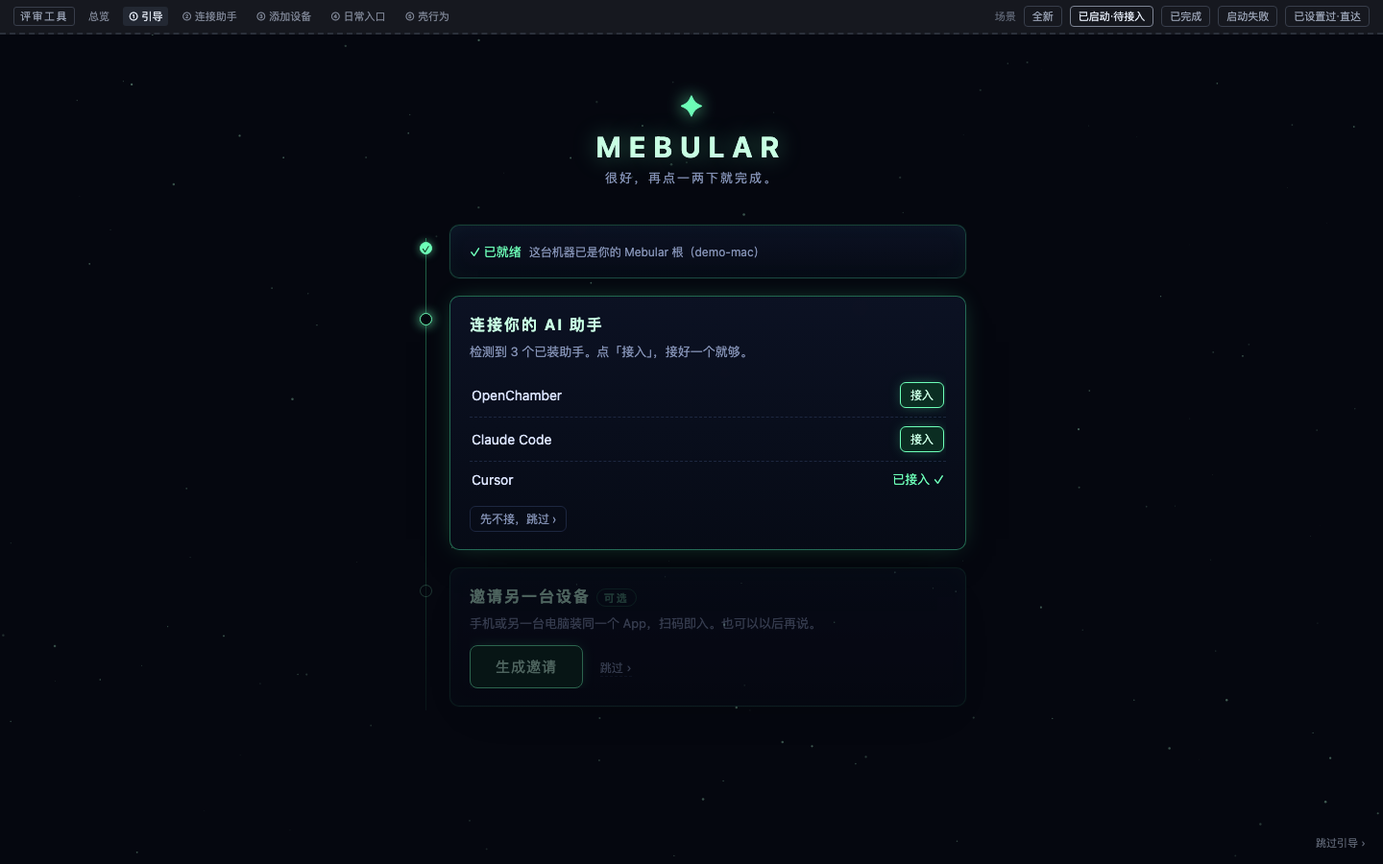
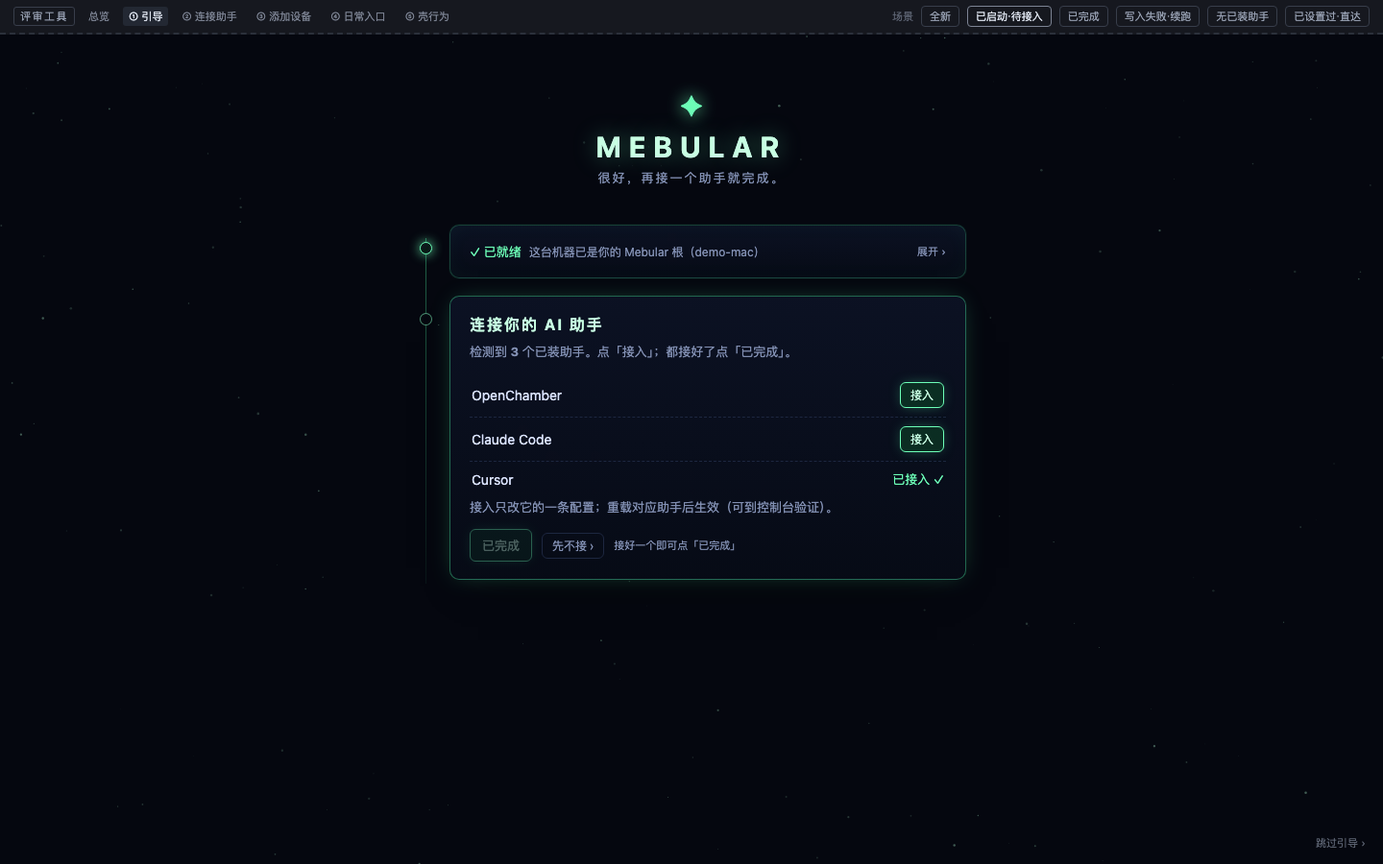
docs(design): setup screen v2 — pipeline visibility, explicit completion, invite out
- 段①：一键后按钮区原位展开子步骤流水（✓启动 ✓写入 ●重启恢复）；
  失败定位到子步骤 + 「从此处续跑」，不再笼统重试
- 段②：行级「已接入 ✓」不自动翻段；段尾「已完成」（≥1 已接入才可用）
  由用户显式点击翻段；加诚实注脚（重载后生效）与 0 助手空态；
  done 段回顾行可重新展开
- 段③邀请移出引导：完成页一句指路「顶栏 ＋ 邀请新设备」；
  完成页对已接未重载助手给提醒
- 跳过语义区分：右下「跳过引导 ›」（整局）vs 段内「先不接 ›」
- 规格 §1/§4.2/§5.1 同步；状态模型注明留 chief 定夺；
  新增 ux2-01-setup-fail-resume 截图

diff --git a/docs/design/prototype/01-setup.html b/docs/design/prototype/01-setup.html
@@ -13,7 +13,7 @@ body.setup { min-height: 100vh; overflow-x: hidden; }
 .hero { text-align: center; margin-bottom: 40px; }
 .hero .mark { font-size: 30px; color: var(--crt); text-shadow: 0 0 18px rgba(109, 255, 184, 0.8); animation: pulse 3.2s ease-in-out infinite; }
 .hero h1 { font-size: 30px; letter-spacing: 8px; margin: 8px 0 6px; text-shadow: 0 0 24px rgba(109, 255, 184, 0.35); }
-.hero .tagline { color: var(--muted); font-size: 13px; letter-spacing: 2px; margin: 0; }
+.hero .tagline { color: var(--muted); font-size: 13px; letter-spacing: 2px; margin: 0; min-height: 18px; }
 
 .rail { list-style: none; margin: 0; padding: 0; position: relative; }
 .rail::before { content: ""; position: absolute; left: 9px; top: 14px; bottom: 14px; width: 1px;
@@ -35,33 +35,43 @@ body.setup { min-height: 100vh; overflow-x: hidden; }
 .panel p { margin: 0 0 12px; font-size: 13px; color: var(--muted); line-height: 1.7; }
 
 button.big { font-size: 15px; padding: 11px 26px; border-radius: 8px; letter-spacing: 1px; }
-.alt { display: inline-block; margin-left: 14px; font-size: 12px; color: var(--muted); text-decoration: none; border-bottom: 1px dashed var(--border); }
+.alt { display: inline-block; margin-left: 14px; font-size: 12px; color: var(--muted); text-decoration: none; border-bottom: 1px dashed var(--border); cursor: pointer; }
 .alt:hover { color: var(--text); }
 .spin { display: inline-block; width: 12px; height: 12px; border: 2px solid var(--crt-dim); border-top-color: var(--crt); border-radius: 50%; animation: rot .8s linear infinite; vertical-align: -2px; margin-right: 8px; }
+
+/* 段①内部流水：一键之后，按钮区变成实时子步骤 */
+.pipeline { list-style: none; margin: 4px 0 0; padding: 0; font-size: 13px; line-height: 2.1; }
+.pipeline li { display: flex; gap: 9px; align-items: baseline; color: var(--muted); }
+.pipeline li .st { width: 14px; text-align: center; flex: none; }
+.pipeline li.ok { color: var(--text); }
+.pipeline li.ok .st { color: var(--crt); }
+.pipeline li.run { color: var(--crt-bright); }
+.pipeline li.bad { color: var(--warn); }
+.pipeline .resume { margin-left: 6px; }
 
 /* 助手行：名称 + 一个动作，纯点击 */
 .arow { display: flex; align-items: center; gap: 10px; padding: 9px 2px; border-top: 1px dashed var(--border); }
 .arow:first-of-type { border-top: none; }
 .arow .nm { flex: 1; font-size: 14px; }
 .arow .ok { color: var(--crt); font-size: 13px; }
+.sec-foot { display: flex; gap: 10px; align-items: center; margin-top: 12px; }
+.hint { font-size: 11px; color: var(--muted); }
 
-/* 完成一行（折叠态） */
-.done-line { display: flex; gap: 8px; align-items: center; color: var(--crt); font-size: 13px; }
+/* 完成一行（折叠态）：可重新展开 */
+.done-line { display: flex; gap: 8px; align-items: center; color: var(--crt); font-size: 13px; cursor: pointer; }
 .done-line .muted { color: var(--muted); }
+.done-line .chev { margin-left: auto; color: var(--muted); font-size: 11px; }
 
-/* 节点内容展开/收起 */
-.node .panel .body { transition: opacity .35s, max-height .45s; overflow: hidden; }
 .node.collapsed .panel .body { display: none; }
 .node:not(.active):not(.done) .panel { pointer-events: none; }
 
 .finish { text-align: center; padding: 26px 0 6px; opacity: 0; transform: translateY(8px); transition: all .6s; }
 .finish.show { opacity: 1; transform: none; }
-.finish .word { font-size: 22px; letter-spacing: 10px; color: var(--crt-bright); text-shadow: 0 0 26px rgba(109, 255, 184, 0.65); margin-bottom: 14px; }
+.finish .word { font-size: 22px; letter-spacing: 10px; color: var(--crt-bright); text-shadow: 0 0 26px rgba(109, 255, 184, 0.65); margin-bottom: 12px; }
+.finish .note { color: var(--muted); font-size: 12px; margin: 4px 0 14px; line-height: 1.8; }
+.finish .note .warn-text { display: block; }
 .skip { position: fixed; right: 18px; bottom: 14px; z-index: 2; font-size: 11px; color: #5f6675; text-decoration: none; }
 .skip:hover { color: var(--muted); }
-
-.qr { text-align: center; margin: 4px 0 10px; }
-.qr pre { display: inline-block; margin: 0; padding: 14px 18px; border-color: var(--crt-border-soft); letter-spacing: 4px; }
 
 @keyframes rot { to { transform: rotate(360deg); } }
 @keyframes pulse { 0%, 100% { opacity: 1; } 50% { opacity: .45; } }
@@ -80,7 +90,8 @@ button.big { font-size: 15px; padding: 11px 26px; border-radius: 8px; letter-spa
   <button data-s="fresh" aria-pressed="true">全新</button>
   <button data-s="step2" aria-pressed="false">已启动·待接入</button>
   <button data-s="done" aria-pressed="false">已完成</button>
-  <button data-s="fail" aria-pressed="false">启动失败</button>
+  <button data-s="fail" aria-pressed="false">写入失败·续跑</button>
+  <button data-s="noassist" aria-pressed="false">无已装助手</button>
   <button data-s="existing" aria-pressed="false">已设置过·直达</button>
 </div>
 <!-- ===== 产品界面 ===== -->
@@ -88,7 +99,7 @@ button.big { font-size: 15px; padding: 11px 26px; border-radius: 8px; letter-spa
   <header class="hero">
     <div class="mark">✦</div>
     <h1>MEBULAR</h1>
-    <p class="tagline" id="tagline">点三下，把它接进你的日常。</p>
+    <p class="tagline" id="tagline">点两下，把它接进你的日常。</p>
   </header>
 
   <ol class="rail">
@@ -101,16 +112,21 @@ button.big { font-size: 15px; padding: 11px 26px; border-radius: 8px; letter-spa
           <p id="start-copy">在这台机器上启动 Mebular 并完成初始设置。<br>数据只存在这台机器上，不上云。</p>
           <div id="start-actions">
             <button class="primary big" id="go">一键开始</button>
-            <a class="alt" href="#" id="alt-join">或加入已有的 Mebular ›</a>
+            <a class="alt" id="alt-join">或加入已有的 Mebular ›</a>
           </div>
           <div id="join-box" hidden>
             <pre style="margin-top:10px">粘贴一次性令牌（邀请方「生成邀请」里的那段文本）…</pre>
             <div class="row"><button class="primary" id="go-join">加入</button></div>
           </div>
-          <p class="fail-line" id="start-fail" hidden>没能启动：守护程序没起来<button class="primary small" id="retry">重试</button></p>
-          <details class="detail" id="start-fail-detail" hidden><summary>详情</summary><pre>spawn node ENOENT（原型假数据）</pre></details>
+          <!-- 一键之后的实时流水（按钮区原位展开） -->
+          <ul class="pipeline" id="pipe" hidden>
+            <li data-k="start"><span class="st">·</span>启动本机守护</li>
+            <li data-k="write"><span class="st">·</span>写入本机设置</li>
+            <li data-k="restart"><span class="st">·</span>重启生效（页面会自动恢复）</li>
+          </ul>
+          <details class="detail" id="start-fail-detail" hidden><summary>详情</summary><pre>写入 ~/.mebular/device.json 失败：磁盘只读（原型假数据）</pre></details>
         </div>
-        <div class="done-line" hidden id="start-done"><span>✓ 已就绪</span><span class="muted">这台机器已是你的 Mebular 根（demo-mac）</span></div>
+        <div class="done-line" hidden id="start-done"><span>✓ 已就绪</span><span class="muted">这台机器已是你的 Mebular 根（demo-mac）</span><span class="chev">展开 ›</span></div>
       </section>
     </li>
 
@@ -120,41 +136,27 @@ button.big { font-size: 15px; padding: 11px 26px; border-radius: 8px; letter-spa
       <section class="panel">
         <div class="body">
           <h2>连接你的 AI 助手</h2>
-          <p>检测到 3 个已装助手。点「接入」，接好一个就够。</p>
-          <div class="arow" data-name="OpenChamber"><span class="nm">OpenChamber</span><button class="primary small connect">接入</button></div>
-          <div class="arow" data-name="Claude Code"><span class="nm">Claude Code</span><button class="primary small connect">接入</button></div>
-          <div class="arow" data-name="Cursor"><span class="nm">Cursor</span><span class="ok">已接入 ✓</span></div>
-          <div class="row" style="margin-top:10px"><button class="ghost small" id="skip-connect">先不接，跳过 ›</button></div>
-        </div>
-        <div class="done-line" hidden id="connect-done"><span>✓ 已接好 <b id="connected-names">OpenChamber</b></span><span class="muted">其余的随时可以回控制台接</span></div>
-      </section>
-    </li>
-
-    <!-- ③ 邀请（可选） -->
-    <li class="node locked" id="n3">
-      <span class="pip"></span>
-      <section class="panel">
-        <div class="body">
-          <h2>邀请另一台设备 <span class="badge dim">可选</span></h2>
-          <p>手机或另一台电脑装同一个 App，扫码即入。也可以以后再说。</p>
-          <div id="invite-actions">
-            <button class="primary big" id="gen">生成邀请</button>
-            <a class="alt" href="#" id="skip-invite">跳过 ›</a>
+          <p id="assist-copy">检测到 <b id="assist-count">3</b> 个已装助手。点「接入」；都接好了点「已完成」。</p>
+          <div id="assist-rows">
+            <div class="arow" data-name="OpenChamber"><span class="nm">OpenChamber</span><button class="primary small connect">接入</button></div>
+            <div class="arow" data-name="Claude Code"><span class="nm">Claude Code</span><button class="primary small connect">接入</button></div>
+            <div class="arow" data-name="Cursor"><span class="nm">Cursor</span><span class="ok">已接入 ✓</span></div>
           </div>
-          <div id="invite-qr" hidden>
-            <div class="qr"><pre>▦▦▦▦▦
-▦ QR ▦
-▦▦▦▦▦</pre></div>
-            <div class="row" style="justify-content:center"><button class="small">复制令牌</button><button class="primary small" id="finish3">好了，进入控制台</button></div>
+          <p class="hint" id="assist-note">接入只改它的一条配置；重载对应助手后生效（可到控制台验证）。</p>
+          <div class="sec-foot">
+            <button class="primary" id="done2" disabled>已完成</button>
+            <button class="ghost small" id="skip-connect">先不接 ›</button>
+            <span class="hint" id="done2-hint">接好一个即可点「已完成」</span>
           </div>
         </div>
-        <div class="done-line" hidden id="invite-done"><span>✓ 邀请已生成</span><span class="muted">15 分钟内有效</span></div>
+        <div class="done-line" hidden id="connect-done"><span>✓ 已接好 <b id="connected-names">OpenChamber</b></span><span class="muted">重载对应助手后生效</span><span class="chev">展开 ›</span></div>
       </section>
     </li>
   </ol>
 
   <div class="finish" id="finish">
     <div class="word">已就绪 ✦</div>
+    <p class="note" id="finish-note">之后想接更多助手、邀请其他设备，都在控制台里：<br>顶栏「＋ 邀请新设备」随时可用。</p>
     <button class="primary big" onclick="location.href='./05-daily.html'">进入控制台</button>
   </div>
 
@@ -202,85 +204,123 @@ function setNode(n, state) { // state: active | done | locked
   el.querySelector('.panel .body').hidden = state === 'done';
   el.querySelector('.done-line').hidden = state !== 'done';
 }
-function showFinish() { $('finish').classList.add('show'); }
-
-// ① 一键开始（壳场景：启动 + 建新 + 重启一次完成，纯点击）
-function startFlow() {
-  const btn = $('go');
-  btn.disabled = true; btn.innerHTML = '<span class="spin"></span>正在启动…';
-  setTimeout(() => { btn.innerHTML = '<span class="spin"></span>正在写入本机设置…'; }, 900);
-  setTimeout(() => {
-    setNode(1, 'done'); setNode(2, 'active'); setNode(3, 'locked');
-    $('tagline').textContent = '很好，再点一两下就完成。';
-    document.querySelector('.stage').scrollIntoView({ behavior: 'smooth' });
-  }, 1800);
-}
-$('go').addEventListener('click', () => {
-  if (mode === 'fail') {
-    $('start-fail').hidden = false; $('start-fail-detail').hidden = false; $('go').disabled = true;
-    return;
-  }
-  startFlow();
-});
-$('retry').addEventListener('click', () => { $('start-fail').hidden = true; $('start-fail-detail').hidden = true; $('go').disabled = false; startFlow(); });
-$('alt-join').addEventListener('click', (e) => { e.preventDefault(); $('join-box').hidden = !$('join-box').hidden; });
-$('go-join').addEventListener('click', startFlow);
-
-// ② 接入（接好一个即可继续）
-document.querySelectorAll('.connect').forEach((b) => b.addEventListener('click', () => {
-  const row = b.closest('.arow'), name = row.dataset.name;
-  b.disabled = true; b.innerHTML = '<span class="spin"></span>接入中…';
-  setTimeout(() => {
-    joined.push(name);
-    b.outerHTML = '<span class="ok">已接入 ✓</span>';
-    $('connected-names').textContent = joined.join('、');
-    setNode(2, 'done'); setNode(3, 'active');
-    $('tagline').textContent = '最后一下（也可以跳过）。';
-  }, 1200);
+// done 段可重新展开（回顾 / 继续操作）
+document.querySelectorAll('.done-line').forEach((d) => d.addEventListener('click', () => {
+  const node = d.closest('.node');
+  node.classList.remove('collapsed');
+  node.querySelector('.panel .body').hidden = false;
+  d.hidden = true;
 }));
-$('skip-connect').addEventListener('click', () => {
-  $('connect-done').innerHTML = '<span>— 已跳过</span><span class="muted">随时可以在控制台「连接 AI 助手」</span>';
-  setNode(2, 'done'); setNode(3, 'active');
-});
+function showFinish() {
+  if (joined.length) {
+    $('finish-note').innerHTML = `提醒：重载 ${joined.join('、')} 后，mebular 才会出现在它的工具列表。<br>之后想接更多助手、邀请其他设备，都在控制台里。`;
+  }
+  $('finish').classList.add('show');
+}
 
-// ③ 邀请 / 跳过 → 完成
-$('gen').addEventListener('click', () => {
-  $('gen').disabled = true; $('gen').innerHTML = '<span class="spin"></span>正在生成…';
-  setTimeout(() => { $('invite-actions').hidden = true; $('invite-qr').hidden = false; }, 800);
+// 段①：一键开始 → 按钮区原位展开实时流水；失败定位到子步骤并可续跑
+const pipeSteps = ['start', 'write', 'restart'];
+function setPipe(k, st, extra) { // st: run|ok|bad|todo
+  const li = document.querySelector(`#pipe li[data-k="${k}"]`);
+  li.className = st === 'todo' ? '' : st;
+  li.querySelector('.st').textContent = { ok: '✓', run: '●', bad: '✗', todo: '·' }[st];
+  li.querySelector('.resume')?.remove();
+  if (st === 'bad' && extra) {
+    const b = document.createElement('button');
+    b.className = 'primary small resume'; b.textContent = '从此处续跑';
+    b.addEventListener('click', () => { $('start-fail-detail').hidden = true; runPipeline(pipeSteps.indexOf(k)); });
+    li.appendChild(b);
+  }
+}
+function runPipeline(from = 0) {
+  $('start-actions').hidden = true; $('join-box').hidden = true; $('pipe').hidden = false;
+  pipeSteps.forEach((k, i) => setPipe(k, i < from ? 'ok' : i === from ? 'run' : 'todo'));
+  const failAt = (mode === 'fail') ? 1 : -1; // 失败场景：卡在「写入本机设置」
+  let i = from;
+  const step = () => {
+    if (i === failAt) {
+      setPipe(pipeSteps[i], 'bad', true);
+      $('start-fail-detail').hidden = false;
+      return;
+    }
+    setPipe(pipeSteps[i], 'ok');
+    i += 1;
+    if (i < pipeSteps.length) { setPipe(pipeSteps[i], 'run'); setTimeout(step, 900); return; }
+    // 全部完成
+    setTimeout(() => {
+      setNode(1, 'done'); setNode(2, 'active');
+      $('tagline').textContent = '很好，再接一个助手就完成。';
+    }, 500);
+  };
+  setTimeout(step, 900);
+}
+$('go').addEventListener('click', () => runPipeline(0));
+$('go-join').addEventListener('click', () => runPipeline(0));
+$('alt-join').addEventListener('click', () => { $('join-box').hidden = !$('join-box').hidden; });
+
+// 段②：行级「已接入」；「已完成」由用户显式点击才翻段（绑定逻辑见 bindConnects）
+$('done2').addEventListener('click', () => {
+  setNode(2, 'done'); showFinish();
+  $('tagline').textContent = '全部就绪。';
 });
-$('finish3').addEventListener('click', () => { setNode(3, 'done'); showFinish(); $('tagline').textContent = '全部就绪。'; });
-$('skip-invite').addEventListener('click', (e) => {
-  e.preventDefault();
-  $('invite-done').innerHTML = '<span>— 已跳过</span><span class="muted">顶栏「＋ 邀请新设备」随时可用</span>';
-  setNode(3, 'done'); showFinish(); $('tagline').textContent = '全部就绪。';
+$('skip-connect').addEventListener('click', () => {
+  $('connect-done').innerHTML = '<span>— 已跳过</span><span class="muted">随时可以在控制台「连接 AI 助手」</span><span class="chev">展开 ›</span>';
+  setNode(2, 'done'); showFinish();
+  $('tagline').textContent = '全部就绪。';
 });
 
 // 场景（评审）
 let mode = 'fresh';
+const ROWS_HTML = $('assist-rows').innerHTML;
+function bindConnects() {
+  document.querySelectorAll('.connect').forEach((b) => b.addEventListener('click', () => {
+    const row = b.closest('.arow'), name = row.dataset.name;
+    b.disabled = true; b.innerHTML = '<span class="spin"></span>接入中…';
+    setTimeout(() => {
+      joined.push(name);
+      b.outerHTML = '<span class="ok">已接入 ✓</span>';
+      $('connected-names').textContent = joined.join('、');
+      $('done2').disabled = false;
+      $('done2-hint').textContent = '还可以继续接其他助手';
+    }, 1100);
+  }));
+}
+function resetAssists(count) {
+  joined = [];
+  $('assist-rows').innerHTML = ROWS_HTML; bindConnects();
+  $('assist-count').textContent = count;
+  $('assist-rows').hidden = count === 0;
+  $('assist-note').hidden = count === 0;
+  $('assist-copy').innerHTML = count === 0
+    ? '没检测到已装的 AI 助手 —— 可以先跳过，装好后再到控制台「连接 AI 助手」。'
+    : `检测到 <b id="assist-count">${count}</b> 个已装助手。点「接入」；都接好了点「已完成」。`;
+  $('done2').disabled = true; $('done2').hidden = count === 0;
+  $('done2-hint').textContent = count === 0 ? '' : '接好一个即可点「已完成」';
+}
 function show(s) {
   mode = s;
   document.querySelectorAll('.proto-review button[data-s]').forEach((b) => b.setAttribute('aria-pressed', String(b.dataset.s === s)));
   rail.hidden = s === 'existing'; $('existing').hidden = s !== 'existing';
   $('finish').classList.remove('show');
-  $('start-fail').hidden = true; $('start-fail-detail').hidden = true;
-  $('go').disabled = false; $('go').textContent = '一键开始';
-  if (s === 'fresh') {
-    $('tagline').textContent = '点三下，把它接进你的日常。';
-    setNode(1, 'active'); setNode(2, 'locked'); setNode(3, 'locked');
+  $('pipe').hidden = true; $('start-fail-detail').hidden = true;
+  $('start-actions').hidden = false; $('go').disabled = false; $('go').textContent = '一键开始';
+  resetAssists(s === 'noassist' ? 0 : 3);
+  if (s === 'fresh' || s === 'fail' || s === 'noassist') {
+    $('tagline').textContent = '点两下，把它接进你的日常。';
+    setNode(1, 'active'); setNode(2, 'locked');
   } else if (s === 'step2') {
-    $('tagline').textContent = '很好，再点一两下就完成。';
-    setNode(1, 'done'); setNode(2, 'active'); setNode(3, 'locked');
+    $('tagline').textContent = '很好，再接一个助手就完成。';
+    setNode(1, 'done'); setNode(2, 'active');
   } else if (s === 'done') {
     $('tagline').textContent = '全部就绪。';
-    setNode(1, 'done'); setNode(2, 'done'); setNode(3, 'done'); showFinish();
-  } else if (s === 'fail') {
-    $('tagline').textContent = '点三下，把它接进你的日常。';
-    setNode(1, 'active'); setNode(2, 'locked'); setNode(3, 'locked');
+    joined = ['OpenChamber']; $('connected-names').textContent = 'OpenChamber';
+    setNode(1, 'done'); setNode(2, 'done'); showFinish();
   } else if (s === 'existing') {
     $('tagline').textContent = '';
   }
 }
 document.querySelectorAll('.proto-review button[data-s]').forEach((b) => b.addEventListener('click', () => show(b.dataset.s)));
+bindConnects();
 { const qs = new URLSearchParams(location.search).get('s'); if (qs) show(qs); }
 </script>
 </body>

diff --git a/docs/design/prototype/index.html b/docs/design/prototype/index.html
@@ -18,15 +18,15 @@
 <main>
   <section class="card">
     <div class="card-head"><h2>旅程图</h2></div>
-    <pre>安装 App → 一屏引导（一键开始 → 接入助手 → 可选邀请，纯点击）→ 日常控制台
-                 │启动失败：一行提示 + 重试      │回想：控制台/托盘「返回向导」
+    <pre>安装 App → 一屏引导（一键开始·子步骤流水 → 行级接入·点「已完成」才翻段）→ 日常控制台
+                 │失败定位到子步骤+续跑        │邀请不进引导（完成页提一句）
                  └────────────── 全程一屏，不分页、不读文档</pre>
   </section>
 
   <section class="card">
     <div class="card-head"><h2>推荐路线（逐屏点一遍）</h2></div>
     <ol class="checklist" style="color:var(--text)">
-      <li><a href="./01-setup.html">① 一屏引导</a>（核心）：点「一键开始」→ 给 OpenChamber 点「接入」→「生成邀请」或「跳过 ›」→「已就绪 ✦」；评审条切「启动失败 / 已设置过·直达」</li>
+      <li><a href="./01-setup.html">① 一屏引导</a>（核心）：「一键开始」看子步骤流水 → 行级接入（不跳走）→「已完成」→「已就绪 ✦」；评审条切「写入失败·续跑 / 无已装助手 / 已设置过·直达」</li>
       <li><a href="./03-connect.html">② 连接助手</a>（日常操作面）：三态卡片、＋新增助手、四个失败场景（评审条）</li>
       <li><a href="./04-device.html">③ 添加设备</a>：生成邀请 → 二次确认再生 → 已连收编</li>
       <li><a href="./05-daily.html">④ 日常入口</a>：完成态日常（控制台为家）</li>
@@ -36,7 +36,7 @@
 
   <section class="card">
     <div class="card-head"><h2>失败路径覆盖</h2></div>
-    <p class="muted">引导期：启动失败（① 屏评审条）。接入期：检测失败 / 写入失败 / 验证失败 / 需重启未重启 → 见 <a href="./03-connect.html">② 连接助手</a> 评审条。</p>
+    <p class="muted">引导期：写入失败·续跑 / 无已装助手（① 屏评审条）。接入期：检测失败 / 写入失败 / 验证失败 / 需重启未重启 → 见 <a href="./03-connect.html">② 连接助手</a> 评审条。</p>
     <p class="muted">对应规格：<code>docs/design/config-journey-v1.md</code>（§8.1 约束本原型的批注边界）。</p>
   </section>
 </main>

diff --git a/docs/design/prototype/README.md b/docs/design/prototype/README.md
@@ -11,7 +11,7 @@
 | 页 | 覆盖 |
 |---|---|
 | `index.html` | 总览 + 旅程图 + 推荐路线（评审页） |
-| `01-setup.html` | **一屏引导**（核心）：星野舞台 + 里程碑轨道，永远只有一个主按钮：一键开始（启动+建新/加入）→ 接入助手（接好一个即可）→ 可选邀请 → 已就绪 ✦；场景：启动失败（一行提示+重试）/ 已设置过·直达控制台 |
+| `01-setup.html` | **一屏引导**（核心）：星野舞台 + 里程碑轨道，永远只有一个主按钮：① 一键开始（按钮区原位展开子步骤流水：✓启动 ✓写入 ●重启恢复；失败子步骤定位+「从此处续跑」）→ ② 行级接入（「已接入 ✓」不自动翻段，点「已完成」才翻段；可回头再接）→ 已就绪 ✦（邀请不进引导，完成页提一句）；场景：写入失败·续跑 / 无已装助手 / 已设置过·直达 |
 | `03-connect.html` | 连接助手（日常操作面）：三态卡片（名称+状态词+一个主按钮，判据入详情）、＋新增助手全流程、接入→验证→待生效→重新验证→已接入 ✓；场景条覆盖**检测失败 / 写入失败 / 验证失败 / 需重启未重启**（一行式） |
 | `04-device.html` | 邀请：生成（loading 禁用）→ 二次确认再生 → 已连收编；加入服务未启用指路 |
 | `05-daily.html` | 日常入口：完成态直达控制台，设置/诊断/关于本机 |
@@ -19,7 +19,7 @@
 
 ## 推荐路线
 
-1. `01`（多停一会）：点「一键开始」→ 给 OpenChamber 点「接入」→「生成邀请」或「跳过 ›」→「已就绪 ✦」；评审条切「启动失败」「已设置过·直达」各看一眼。
+1. `01`（多停一会）：点「一键开始」看子步骤流水 → 给 OpenChamber 点「接入」（行级已接入，**不跳走**）→ 可再接 Claude Code → 点「已完成」→「已就绪 ✦」；评审条切「写入失败·续跑」「无已装助手」「已设置过·直达」各看一眼；点完成段的回顾行可重新展开。
 2. `03`：日常再进连接页的场景——三态卡片、四个失败场景（评审条）、「＋ 新增助手」登记流；展开卡片「详情」看判据与次级动作。
 3. `04`：生成邀请 → 重新生成的二次确认。
 4. `05`/`06`：日常与壳行为（标注）。
